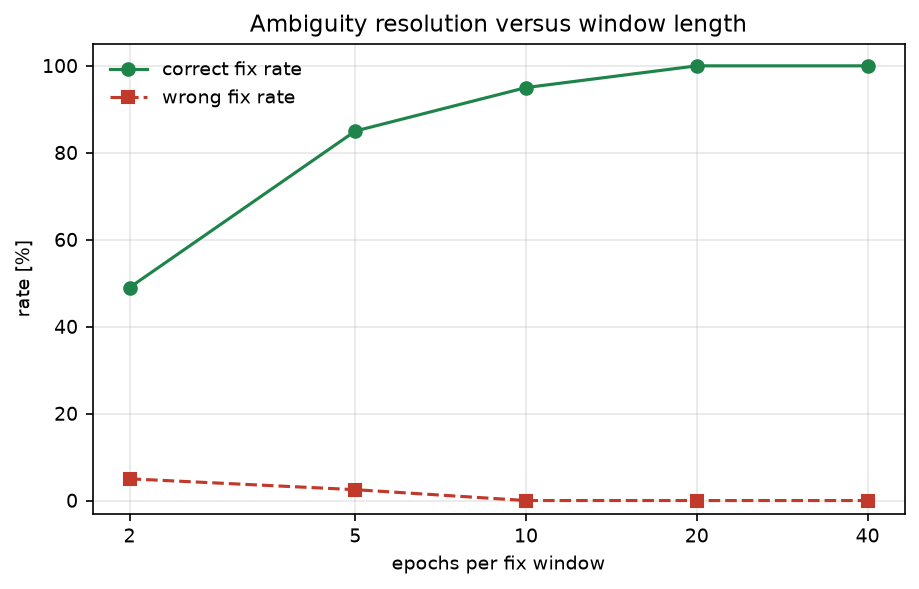
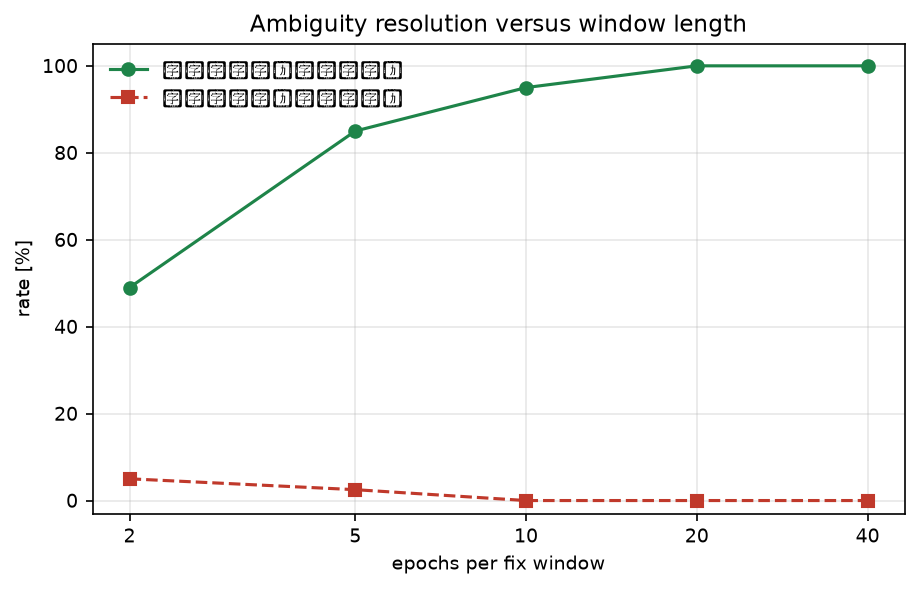
fix(ground): 按 review 修正 RTK 模块的启动参数、公式定界符与指标口径
- 文档/README 的 duration:=30 改为实际存在的 windows:=20，并补充 windows /
  window_epochs / seed 三个参数含义（windows=0 表示无限循环）
- 9 处 \[..\] / \(..\) 改为仓库惯例的 .. 与 $..$，可在文档站正常渲染
- 仿真节点 windows 语义修正：不再在第一个回调里 shutdown，改为按窗口计数，
  发满 windows 个后 timer.cancel() 再退出；launch 用 on_exit=Shutdown() 收尾
- 求解节点实现 output_csv（每窗口一行：ratio/fixed/float_error/fixed_error）
- package.xml 删掉未用的 sensor_msgs/nav_msgs/geometry_msgs/visualization_msgs 与
  test_depend python3-dev，补 python3-numpy
- 指标口径统一：summarize 增加 fixed_max_fixed_only_mm 与 float_sigma_cycles_max，
  图例改为 correct/wrong fix rate (all windows)；文档注明最大误差与 RMSE 的统计范围
- 单历元模糊度 sigma 由 1.9 周更正为 1.36 周（1.27-1.50）
- decorrelation 增加 diag_before / diag_after，4.3 的 0.080/0.112 -> 0.004/0.025 可溯源
- main.py docstring 的 --figure-dir 深度修正；测试去掉 zip(strict=True)，
  summary 写入改用 open(newline=)，兼容 Python 3.8

Changed region(s): [[0.1523, 0.0917, 0.457, 0.1834]]

diff --git a/src/ground/rtk_ambiguity_resolution/rtk_ambiguity_resolution/nodes.py b/src/ground/rtk_ambiguity_resolution/rtk_ambiguity_resolution/nodes.py
@@ -2,7 +2,9 @@
 
 from __future__ import annotations
 
+import csv
 import json
+import pathlib
 
 import numpy as np
 import rclpy
@@ -22,23 +24,23 @@ class RtkSimulator(Node):
         self.declare_parameter("windows", 0)
         self.declare_parameter("seed", 0)
         self.window_epochs = max(1, int(self.get_parameter("window_epochs").value))
-        self.windows = int(self.get_parameter("windows").value)
+        self.windows = int(self.get_parameter("windows").value)  # 0 = 无限循环
         self.seed = int(self.get_parameter("seed").value)
         config = RtkConfig(epochs=self.window_epochs, epochs_per_fix=self.window_epochs, seed=self.seed)
         self.epochs = simulate(config)
         self.publisher = self.create_publisher(String, "/rtk/observation", 10)
         self.index = 0
+        self.published = 0
         self.timer = self.create_timer(0.5, self.step)
         self.get_logger().info(
             f"rtk_sim ready: {len(self.epochs)} epochs of {self.window_epochs} samples"
         )
 
     def step(self) -> None:
-        if self.index >= 1:
-            if self.windows > 0:
-                rclpy.shutdown()
-            else:
-                self.index = 0
+        if self.windows > 0 and self.published >= self.windows:
+            self.timer.cancel()
+            self.get_logger().info(f"published {self.published} windows, shutting down")
+            rclpy.shutdown()
             return
         payload = {
             "design": np.vstack([epoch["design"] for epoch in self.epochs]).tolist(),
@@ -51,7 +53,7 @@ class RtkSimulator(Node):
             "truth_ambiguity": self.epochs[0]["ambiguity"].tolist(),
         }
         self.publisher.publish(String(data=json.dumps(payload)))
-        self.index += 1
+        self.published += 1
 
 
 class RtkSolver(Node):
@@ -66,6 +68,12 @@ class RtkSolver(Node):
         self.sigma_phase = float(self.get_parameter("sigma_phase_cycles").value)
         self.sigma_code = float(self.get_parameter("sigma_code_m").value)
         self.threshold = float(self.get_parameter("ratio_threshold").value)
+        self.csv_path = pathlib.Path(str(self.get_parameter("output_csv").value))
+        self.csv_path.parent.mkdir(parents=True, exist_ok=True)
+        self.csv_file = self.csv_path.open("w", newline="", encoding="utf-8")
+        self.writer = csv.writer(self.csv_file, lineterminator="\n")
+        self.writer.writerow(["window", "ratio", "fixed", "float_error_mm", "fixed_error_mm"])
+        self.windows_done = 0
         self.status_pub = self.create_publisher(String, "/rtk/status", 10)
         self.create_subscription(String, "/rtk/observation", self.on_observation, 10)
         self.get_logger().info(
@@ -102,11 +110,29 @@ class RtkSolver(Node):
             "float_error_mm": float(1000.0 * np.linalg.norm(solution.baseline - truth)),
             "fixed_error_mm": float(1000.0 * np.linalg.norm(result.baseline - truth)),
         }
+        self.windows_done += 1
+        self.writer.writerow(
+            [
+                self.windows_done,
+                f"{status['ratio']:.4f}",
+                int(status['fixed']),
+                f"{status['float_error_mm']:.4f}",
+                f"{status['fixed_error_mm']:.4f}",
+            ]
+        )
+        self.csv_file.flush()
         self.status_pub.publish(String(data=json.dumps(status)))
         self.get_logger().info(
             f"ratio={status['ratio']:.1f} fixed={status['fixed']} "
             f"float={status['float_error_mm']:.1f} mm fixed={status['fixed_error_mm']:.2f} mm"
         )
+
+
+    def destroy_node(self) -> bool:
+        if not self.csv_file.closed:
+            self.csv_file.flush()
+            self.csv_file.close()
+        return super().destroy_node()
 
 
 def _spin(node: Node) -> None:

diff --git a/src/ground/rtk_ambiguity_resolution/rtk_ambiguity_resolution/headless.py b/src/ground/rtk_ambiguity_resolution/rtk_ambiguity_resolution/headless.py
@@ -66,6 +66,8 @@ def summarize(rows: list[dict]) -> dict:
         "fixed_epochs": int(fixed_only.size),
         "float_max_mm": float(1000.0 * np.max(float_errors)),
         "fixed_max_mm": float(1000.0 * np.max(fixed_errors)),
+        "fixed_max_fixed_only_mm": float(1000.0 * np.max(fixed_only)) if fixed_only.size else float("nan"),
+        "float_sigma_cycles_max": float(np.max([row["float_ambiguity_sigma"] for row in rows])),
         "success_rate_pct": float(100.0 * np.mean(correct)),
         "fix_rate_pct": float(100.0 * np.mean(fixed)),
         "wrong_fix_pct": float(100.0 * np.mean(fixed & ~correct)),
@@ -128,15 +130,17 @@ def run_experiment(
             "condition_after": float(
                 np.linalg.cond(transform @ sample_solution.cov_nn @ transform.T)
             ),
+            "diag_before": [float(value) for value in np.diag(sample_solution.cov_nn)],
+            "diag_after": [
+                float(value)
+                for value in np.diag(transform @ sample_solution.cov_nn @ transform.T)
+            ],
         },
     }
     if out_dir is not None:
         out_dir.mkdir(parents=True, exist_ok=True)
-        (out_dir / "summary.json").write_text(
-            json.dumps(summary, ensure_ascii=False, indent=2) + "\n",
-            encoding="utf-8",
-            newline="\n",
-        )
+        with (out_dir / "summary.json").open("w", encoding="utf-8", newline="\n") as stream:
+            stream.write(json.dumps(summary, ensure_ascii=False, indent=2) + "\n")
     if make_plots:
         if figure_dir is None:
             raise ValueError("figure_dir is required when make_plots is True")

diff --git a/src/ground/rtk_ambiguity_resolution/rtk_ambiguity_resolution/plotting.py b/src/ground/rtk_ambiguity_resolution/rtk_ambiguity_resolution/plotting.py
@@ -49,8 +49,8 @@ def plot_window_sweep(sweep, output_path) -> None:
     success = np.array([block["success_rate_pct"] for block in sweep.values()])
     wrong = np.array([block["wrong_fix_pct"] for block in sweep.values()])
     figure, ax = plt.subplots(figsize=(6.2, 4.0))
-    ax.plot(windows, success, "o-", color="#1e8449", label="correct fix rate")
-    ax.plot(windows, wrong, "s--", color="#c0392b", label="wrong fix rate")
+    ax.plot(windows, success, "o-", color="#1e8449", label="correct fix rate (all windows)")
+    ax.plot(windows, wrong, "s--", color="#c0392b", label="wrong fix rate (all windows)")
     ax.set_xscale("log")
     ax.set_xticks(windows)
     ax.set_xticklabels([str(value) for value in windows])

diff --git a/src/ground/rtk_ambiguity_resolution/launch/main.launch.py b/src/ground/rtk_ambiguity_resolution/launch/main.launch.py
@@ -2,7 +2,7 @@ import os
 
 from ament_index_python.packages import get_package_share_directory
 from launch import LaunchDescription
-from launch.actions import DeclareLaunchArgument
+from launch.actions import DeclareLaunchArgument, Shutdown
 from launch.substitutions import LaunchConfiguration
 from launch_ros.actions import Node
 from launch_ros.parameter_descriptions import ParameterValue
@@ -20,6 +20,7 @@ def generate_launch_description():
                 executable="rtk_sim",
                 name="rtk_sim",
                 output="screen",
+                on_exit=Shutdown(),
                 parameters=[
                     config,
                     {

diff --git a/src/ground/rtk_ambiguity_resolution/tests/test_core.py b/src/ground/rtk_ambiguity_resolution/tests/test_core.py
@@ -144,7 +144,7 @@ class SceneTests(unittest.TestCase):
         config = RtkConfig(epochs=40, epochs_per_fix=20, seed=5)
         first = simulate(config)
         second = simulate(config)
-        for left, right in zip(first, second, strict=True):
+        for left, right in zip(first, second, ):
             np.testing.assert_array_equal(left["phase_cycles"], right["phase_cycles"])
             np.testing.assert_array_equal(left["code_m"], right["code_m"])
 

diff --git a/src/ground/rtk_ambiguity_resolution/main.py b/src/ground/rtk_ambiguity_resolution/main.py
@@ -1,6 +1,6 @@
 """Module entry point: offline experiment without ROS.
 
-    python main.py --out results --figure-dir ../../docs/img/ground/rtk_ambiguity_resolution
+    python main.py --out results --figure-dir ../../../docs/img/ground/rtk_ambiguity_resolution
 """
 
 import sys

diff --git a/docs/ground/rtk_ambiguity_resolution.md b/docs/ground/rtk_ambiguity_resolution.md
@@ -16,64 +16,64 @@
 
 对同一颗参考星做站间、星间双差，消掉接收机钟差与卫星钟差：
 
-\[
+
 \lambda\,\nabla\Delta\Phi_i=\mathbf{a}_i^\top\mathbf{b}+\lambda\,\nabla\Delta N_i+\varepsilon_i,
 \qquad
 \nabla\Delta P_i=\mathbf{a}_i^\top\mathbf{b}+\eta_i
-\]
 
-其中 \(\mathbf{a}_i\) 是双差方向余弦（由卫星方位角/高度角计算），\(\mathbf{b}\) 是基线向量，
-\(\nabla\Delta N_i\) 是整数双差模糊度，\(\lambda=0.1903\) m（GPS L1）。
+
+其中 $\mathbf{a}_i$ 是双差方向余弦（由卫星方位角/高度角计算），$\mathbf{b}$ 是基线向量，
+$\nabla\Delta N_i$ 是整数双差模糊度，$\lambda=0.1903$ m（GPS L1）。
 5 颗卫星给出 4 个双差，测相噪声 0.01 周、测码噪声 0.30 m。
 
 ### 1.2 浮点解
 
-把 \([\,\mathbf{b};\ \mathbf{N}\,]\) 一起做加权最小二乘：
+把 $[\,\mathbf{b};\ \mathbf{N}\,]$ 一起做加权最小二乘：
 
-\[
+
 \hat{\mathbf{x}}=(H^\top WH)^{-1}H^\top W\mathbf{y},\qquad
 Q=(H^\top WH)^{-1}
-\]
 
-单历元时模糊度精度其实由**测码**决定（基线只能靠码观测约束），所以 \(\sigma_N\approx1.9\) 周；
+
+单历元时模糊度精度其实由**测码**决定（基线只能靠码观测约束），所以 $\sigma_N\approx1.9$ 周；
 这正是单历元无法可靠固定的原因。
 
 ### 1.3 LAMBDA 去相关
 
-对 \(Q_N\) 做 \(LDL^\top\) 分解，用整数高斯变换
+对 $Q_N$ 做 $LDL^\top$ 分解，用整数高斯变换
 
-\[
+
 Z_{i,:}\leftarrow Z_{i,:}-\text{round}(L_{ij})\,Z_{j,:}
-\]
 
-把非对角元压到 \(|L_{ij}|\le0.5\)，再按对角元排序做置换，直到不再变化。
-\(Z\) 是幺模整数矩阵（\(|\det Z|=1\)），因此 \(\mathbf{z}=Z\mathbf{N}\) 仍是整数向量，而
-\(Q_z=ZQ_NZ^\top\) 的条件数从 24855 降到 7.87（约 3000 倍），整数搜索的枚举量随之下降。
+
+把非对角元压到 $|L_{ij}|\le0.5$，再按对角元排序做置换，直到不再变化。
+$Z$ 是幺模整数矩阵（$|\det Z|=1$），因此 $\mathbf{z}=Z\mathbf{N}$ 仍是整数向量，而
+$Q_z=ZQ_NZ^\top$ 的条件数从 24855 降到 7.87（约 3000 倍），整数搜索的枚举量随之下降。
 
 ### 1.4 整数搜索与 ratio 检验
 
-在 \(3\sigma\) 的盒子里枚举整数向量，按二次型
+在 $3\sigma$ 的盒子里枚举整数向量，按二次型
 
-\[
+
 c(\mathbf{z})=(\mathbf{z}-\hat{\mathbf{z}})^\top Q_z^{-1}(\mathbf{z}-\hat{\mathbf{z}})
-\]
+
 
 排序；最优与次优的比值
 
-\[
+
 \text{ratio}=\frac{c_2}{c_1}
-\]
+
 
 超过阈值（本模块取 3）才认为固定成功，否则退回浮点解。固定后的基线为
 
-\[
+
 \hat{\mathbf{b}}_{\text{fixed}}=\hat{\mathbf{b}}-Q_{bN}Q_N^{-1}(\hat{\mathbf{N}}-\check{\mathbf{N}})
-\]
+
 
 ### 1.5 仿真
 
-5 颗卫星（方位 20°/110°/200°/280°/340°，高度角 70°…15°），真实基线 \((0.80,0.60,0.10)\) m，
-双差模糊度取 0–120 周单差之差的整数。每个"固定窗口"由 \(k\) 个历元堆叠而成，
+5 颗卫星（方位 20°/110°/200°/280°/340°，高度角 70°…15°），真实基线 $(0.80,0.60,0.10)$ m，
+双差模糊度取 0–120 周单差之差的整数。每个"固定窗口"由 $k$ 个历元堆叠而成，
 模糊度在窗口内保持不变——这就是实际 RTK 的固定流程。
 
 ## 2. ROS 2 接口
@@ -95,7 +95,7 @@ source /opt/ros/humble/setup.bash
 cd ~/hutb_ws
 colcon build --symlink-install --packages-select rtk_ambiguity_resolution
 source install/setup.bash
-ros2 launch rtk_ambiguity_resolution main.launch.py duration:=30
+ros2 launch rtk_ambiguity_resolution main.launch.py windows:=20
 ```
 
 离线：
@@ -118,6 +118,9 @@ python3 -m unittest discover -s tests -v
 | 固定解基线 RMSE（仅统计通过 ratio 检验的 19 次） | **0.89 mm** |
 | 浮点解最大误差 | 398.33 mm |
 | 固定解最大误差 | 1.75 mm |
+
+（口径：「固定解最大误差」统计全部 20 个窗口——19 个通过 ratio 检验 + 1 个未固定；
+RMSE 只统计通过检验的 19 次。1.75 mm 这个最大值出现在已固定的窗口，未固定那次误差更小。）
 | 整数固定正确率 | 100 % |
 | 错误固定率 | 0 % |
 | ratio 中位数 | 12.4 |
@@ -147,7 +150,7 @@ python3 -m unittest discover -s tests -v
 
 | 指标 | 去相关前 | 去相关后 |
 |---|---|---|
-| \(Q_N\) 条件数 | 24855 | 7.87 |
+| $Q_N$ 条件数 | 24855 | 7.87 |
 | 最小/最大对角元 [周²] | 0.080 / 0.112 | 0.004 / 0.025 |
 
 搜索候选中位数从"未去相关时不可枚举"降到 81 个。
@@ -175,7 +178,7 @@ python3 -m unittest discover -s tests -v    # 17 项
 2. 未建模对流层/电离层延迟、多路径与卫星钟差残差，仿真只含高斯噪声。
 3. 基线短（约 1 m），双差残差近似为零均值；长基线需要估计大气延迟参数。
 4. 卫星几何固定不变，未模拟可见星变化与周跳；实际还需要周跳探测。
-5. 整数搜索用 \(3\sigma\) 盒枚举，维度高时应换成 SE-VB 收缩搜索。
+5. 整数搜索用 $3\sigma$ 盒枚举，维度高时应换成 SE-VB 收缩搜索。
 6. 纯 Python 实现，20 个窗口约 0.4 s，未做实时优化。
 7. ROS 2 端只做了 `compileall`、`package.xml` 解析与桩模块联调，未在本机执行 `colcon build` 与 `ros2 launch`。
 

diff --git a/src/ground/rtk_ambiguity_resolution/README.md b/src/ground/rtk_ambiguity_resolution/README.md
@@ -15,7 +15,7 @@ source /opt/ros/humble/setup.bash
 cd ~/hutb_ws
 colcon build --symlink-install --packages-select rtk_ambiguity_resolution
 source install/setup.bash
-ros2 launch rtk_ambiguity_resolution main.launch.py duration:=30
+ros2 launch rtk_ambiguity_resolution main.launch.py windows:=20
 ```
 
 | 话题 | 类型 | 方向 | 说明 |
